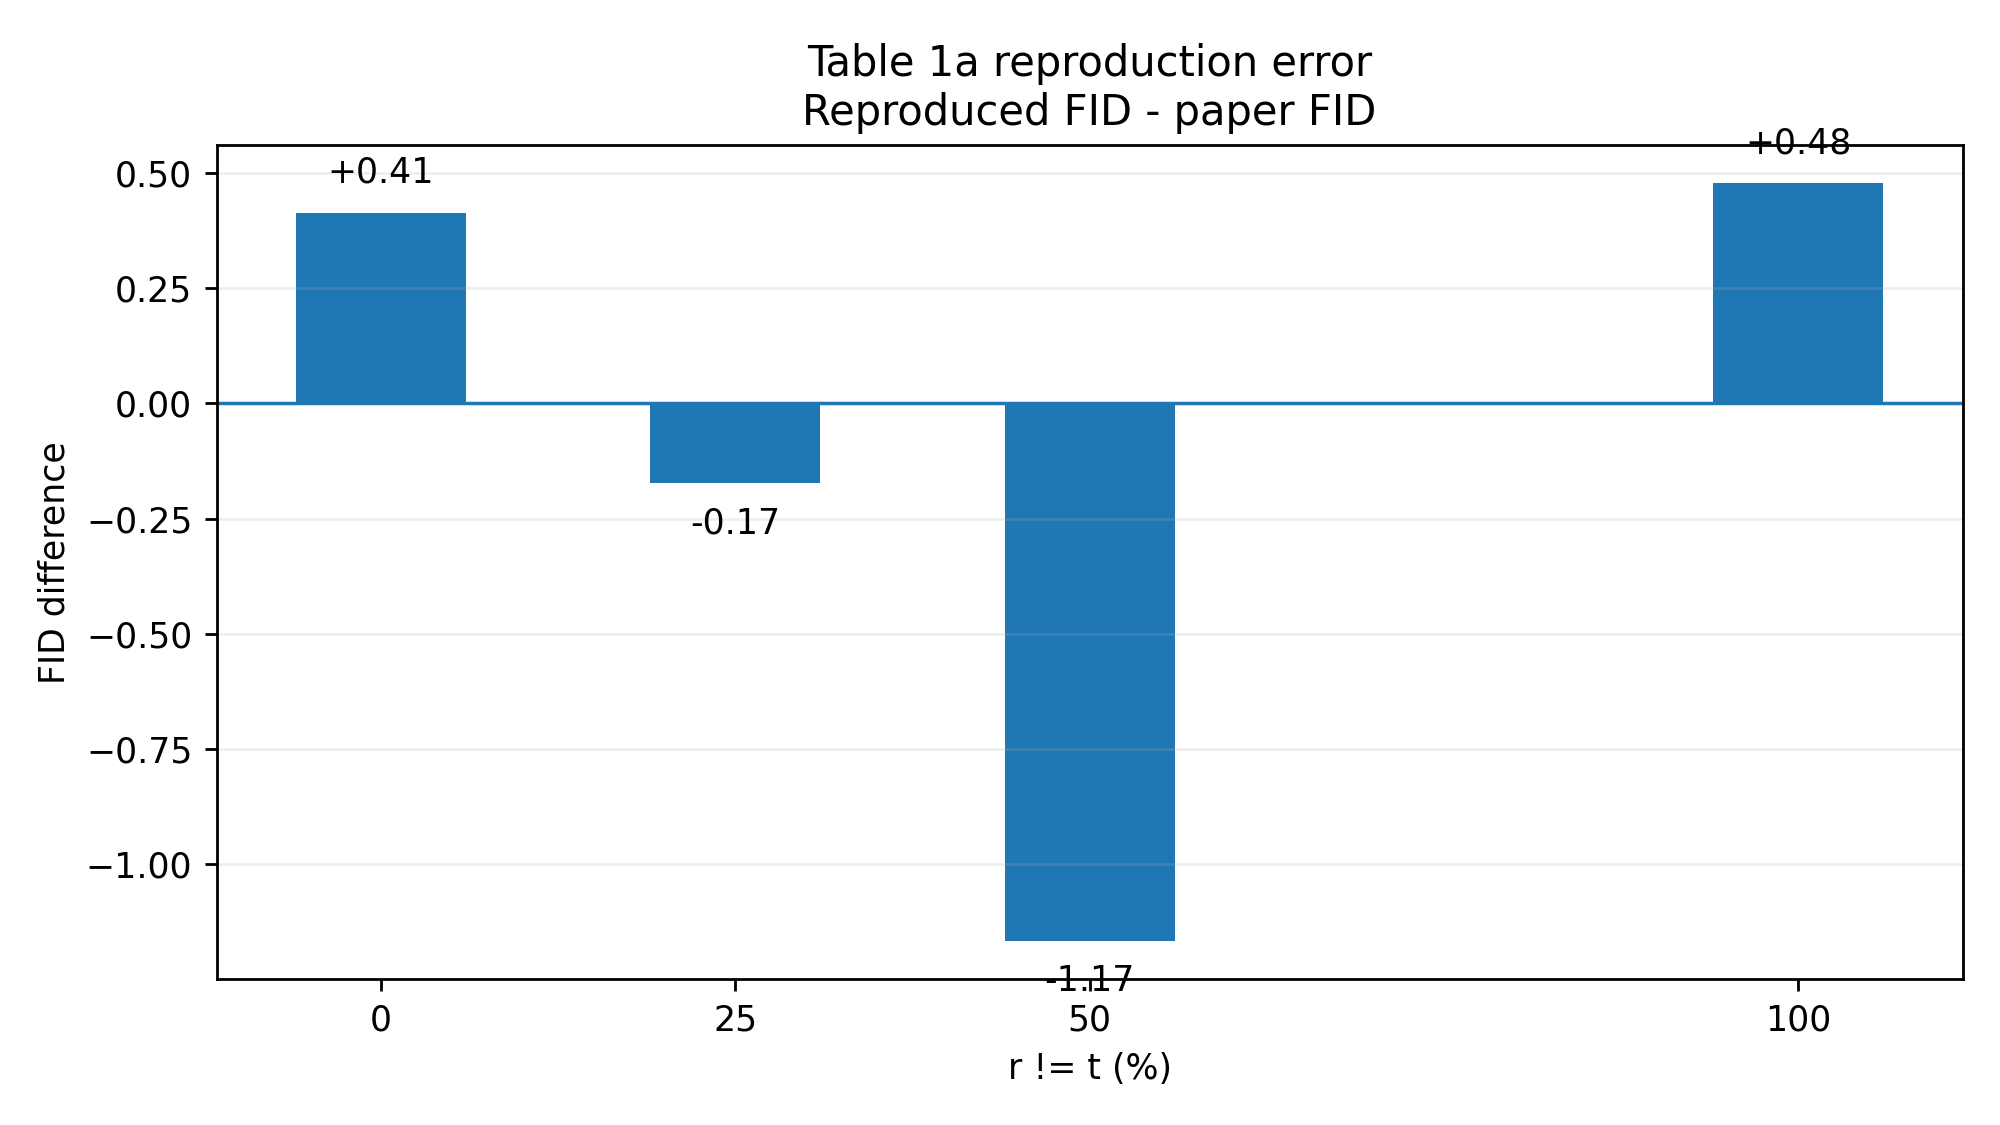
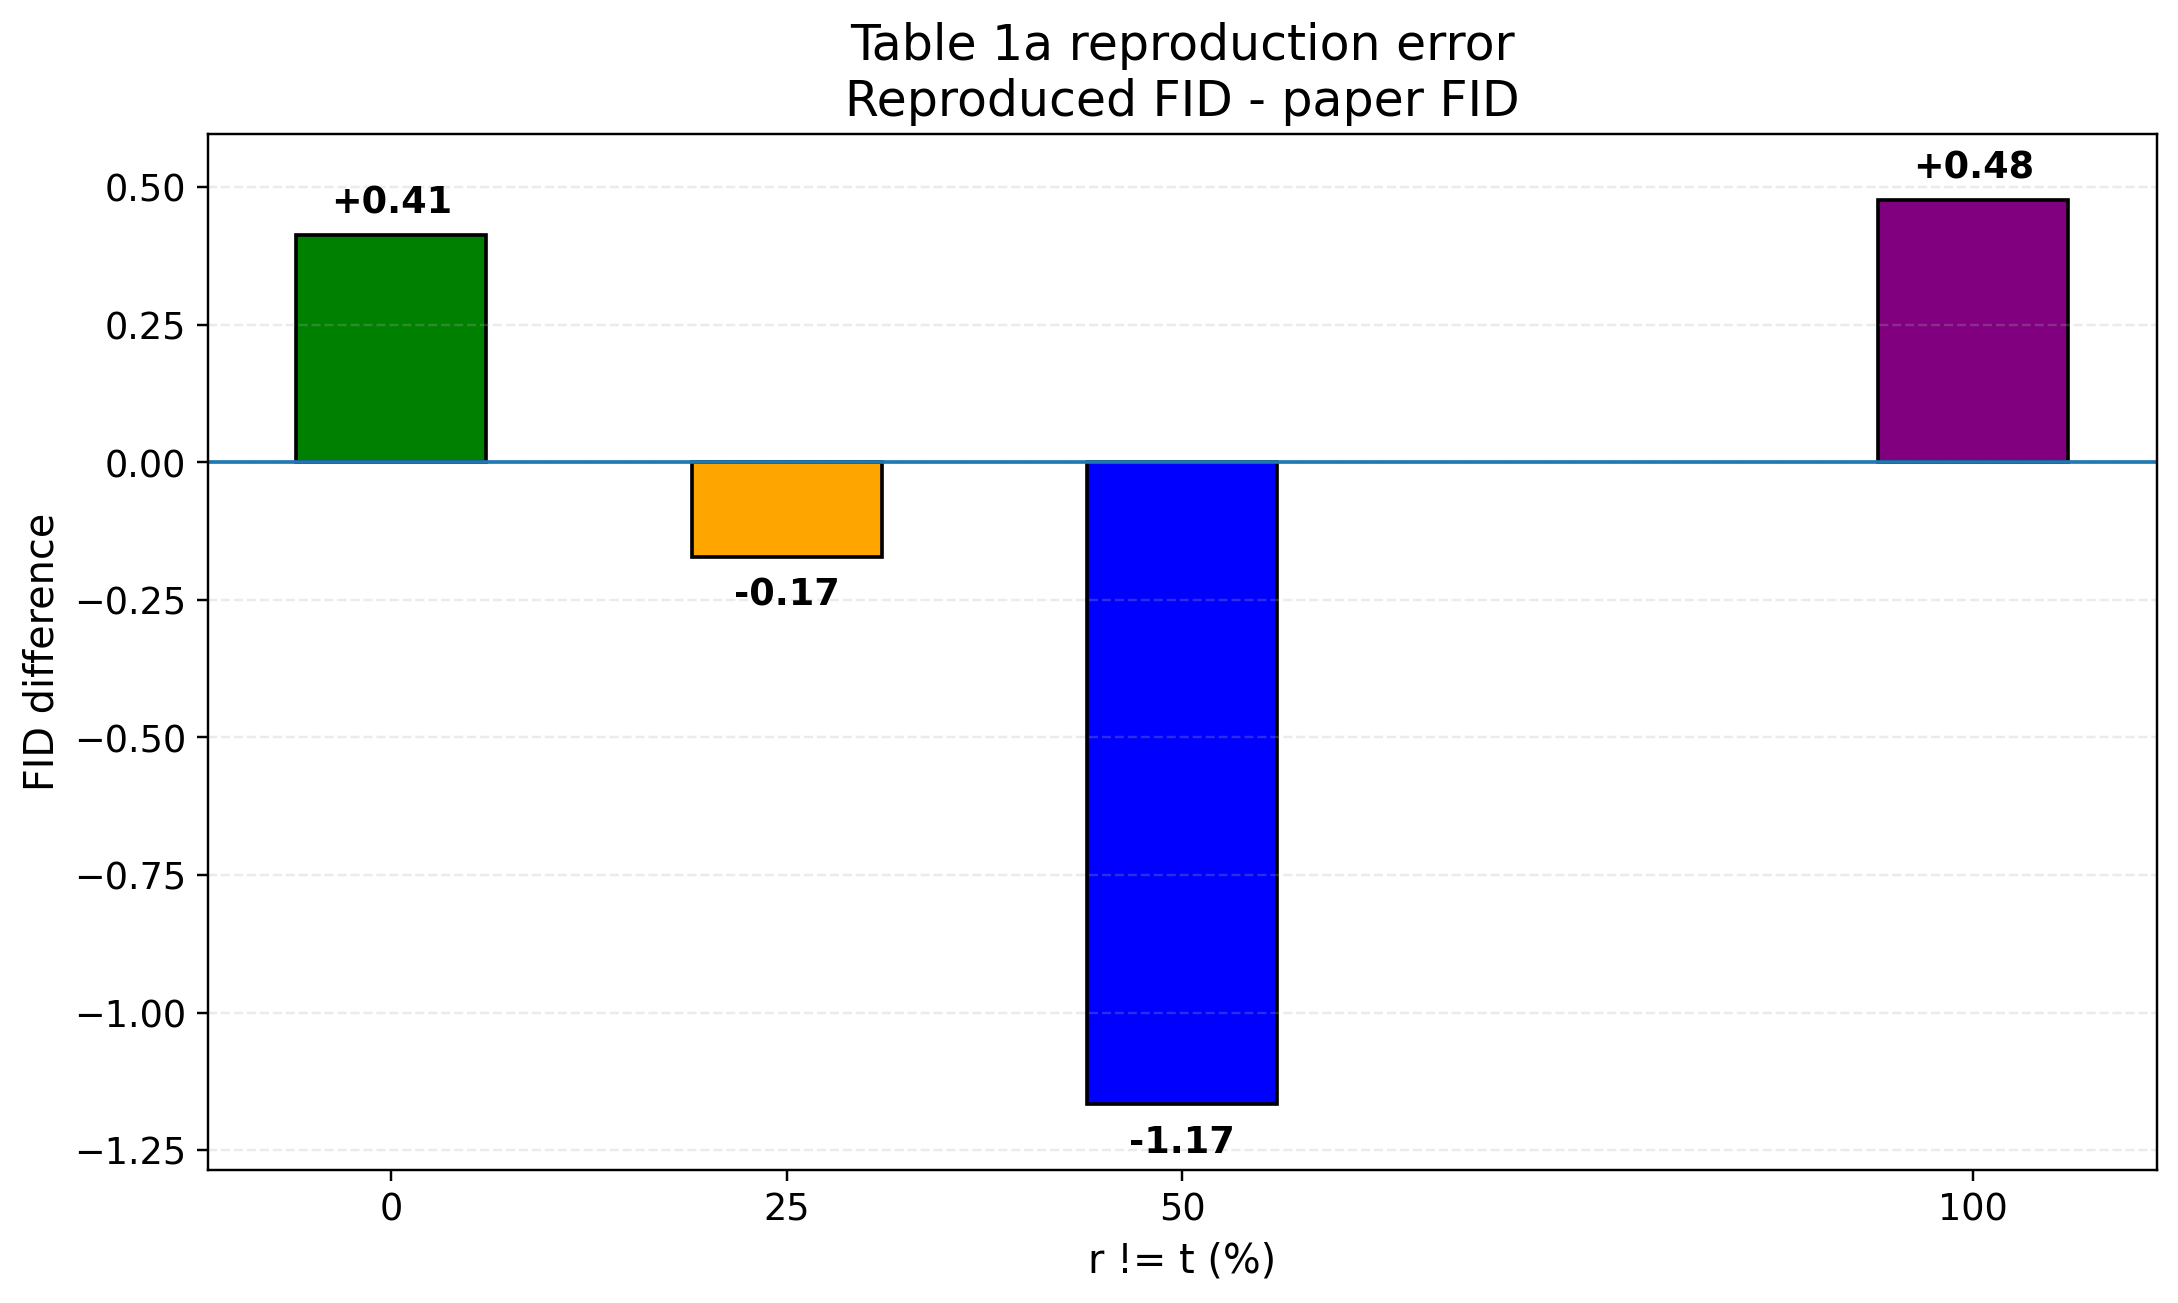
Add cleaned Table 1a error plot

Changed region(s): [[0.0, 0.0, 0.992, 0.9956]]

diff --git a/experiments/said_table1a/scripts/plot_results.py b/experiments/said_table1a/scripts/plot_results.py
@@ -1,30 +1,58 @@
-import numpy as np
+from pathlib import Path
+import os
+import pandas as pd
 import matplotlib.pyplot as plt
 
-data = np.loadtxt(
-    "results/said_table1a/tables/table1a_results.csv",
-    delimiter=",", skiprows=1, usecols=(0, 1, 2)
+csv_path = Path("results/said_table1a/tables/table1a_results.csv")
+out_dir = Path("results/said_table1a/figures")
+out_dir.mkdir(parents=True, exist_ok=True)
+
+df = pd.read_csv(csv_path)
+
+x = df["ratio_r_not_equal_t"]
+y = df["reproduced_fid"] - df["paper_fid"]
+
+colors = ["green", "orange", "blue", "purple"]
+
+plt.figure(figsize=(10, 6))
+bars = plt.bar(
+    x,
+    y,
+    color=colors,
+    width=12,
+    edgecolor="black",
+    linewidth=1.2
 )
 
-x, paper, reproduced = data.T
-diff = reproduced - paper
+plt.axhline(0, linewidth=1.2)
+plt.grid(axis="y", linestyle="--", alpha=0.25)
 
-fig, ax = plt.subplots(figsize=(8, 4.5))
-bars = ax.bar(x, diff, width=12)
+plt.title("Table 1a reproduction error\nReproduced FID - paper FID", fontsize=16)
+plt.xlabel("r != t (%)", fontsize=13)
+plt.ylabel("FID difference", fontsize=13)
+plt.xticks(x, [str(v) for v in x], fontsize=12)
+plt.yticks(fontsize=12)
 
-ax.axhline(0, linewidth=1)
-ax.set_xticks(x)
-ax.set_xlabel("r != t (%)")
-ax.set_ylabel("FID difference")
-ax.set_title("Table 1a reproduction error\nReproduced FID - paper FID")
-ax.grid(axis="y", alpha=0.2)
+ymin = min(y)
+ymax = max(y)
+pad = 0.12
+plt.ylim(ymin - pad, ymax + pad)
 
-for bar, value in zip(bars, diff):
-    y = value + 0.05 if value >= 0 else value - 0.05
-    va = "bottom" if value >= 0 else "top"
-    ax.text(bar.get_x() + bar.get_width()/2, y, f"{value:+.2f}",
-            ha="center", va=va)
+for bar, yi in zip(bars, y):
+    x_text = bar.get_x() + bar.get_width() / 2
+    if yi >= 0:
+        plt.text(
+            x_text, yi + 0.025, f"{yi:+.2f}",
+            ha="center", va="bottom", fontsize=12, fontweight="bold"
+        )
+    else:
+        plt.text(
+            x_text, yi - 0.035, f"{yi:+.2f}",
+            ha="center", va="top", fontsize=12, fontweight="bold"
+        )
 
 plt.tight_layout()
-plt.savefig("results/said_table1a/figures/table1a_fid_difference.png", dpi=250)
-plt.savefig("results/said_table1a/figures/table1a_fid_difference.pdf")
+plt.savefig(out_dir / "table1a_fid_difference.png", dpi=220, bbox_inches="tight")
+plt.close()
+
+print("Saved:", out_dir / "table1a_fid_difference.png")
